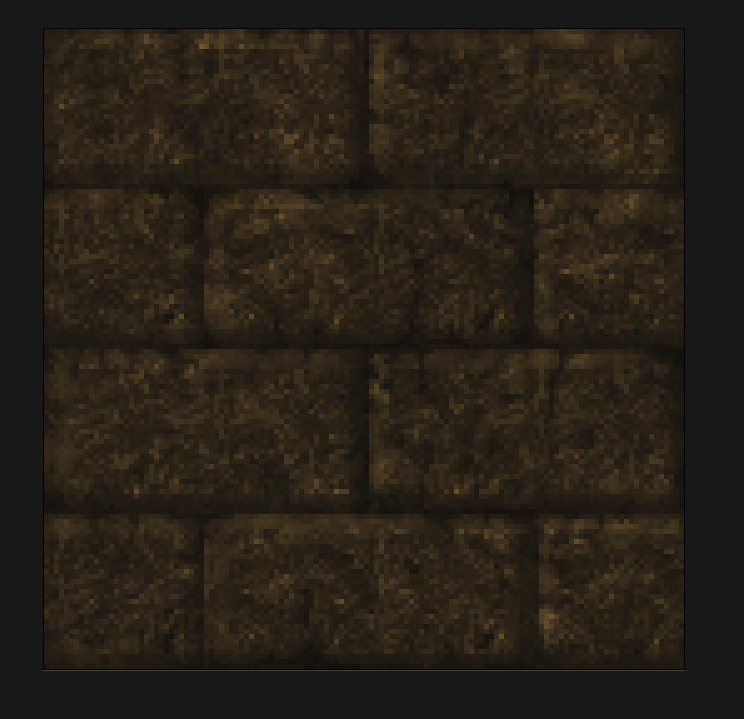
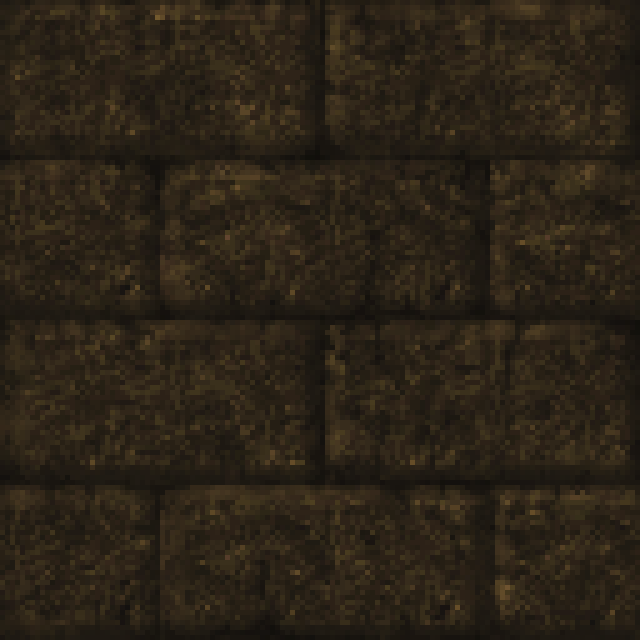
adjust textures

diff --git a/main.js b/main.js
@@ -1,5 +1,6 @@
 // Prepare textures once
 let texture1 = loadTexture("assets/cvlt-game-art-greatwalll1.jpg");
+let texture2 = loadTexture("assets/wall1.png");
 
 // Create scene
 let scene = new Scene();
@@ -7,7 +8,7 @@ let scene = new Scene();
 let cube1 = new Cube(0, 0, -7, 1, 1, 1, texture1);
 let cube2 = new Cube(2, 0.5, -10, 1, 2, 0.5, texture1);
 
-let plain1 = new Plain(1, 0, -9, 6, 6, texture1, 1.55);
+let plain1 = new Plain(1, 0, -9, 10, 10, texture2, 1.55);
 
 scene.objects = [cube1, cube2, plain1];
 

diff --git a/plain.js b/plain.js
@@ -31,7 +31,7 @@ class Plain {
         this.vertices = [...plainVertices];
 
         // How many times to repeat per unit
-        let repeatPerUnit = .5; // tile per 1 unit length
+        let repeatPerUnit = .7; // tile per 1 unit length
 
         this.textureCoordinates = [
             0.0, 0.0,

diff --git a/index.html b/index.html
@@ -8,7 +8,7 @@
         body {
             margin: 0;
             padding: 0;
-            background: #3c3c3c;
+            background: #2c2c2c;
             display: flex;
             justify-content: center;
             align-items: center;
